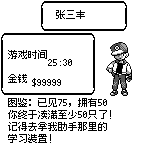
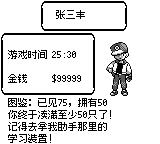
fix: align Chinese Hall of Fame stat labels and values

Changed region(s): [[0.1875, 0.5, 0.5312, 0.6111], [0.2812, 0.3333, 0.5, 0.4722]]

diff --git a/crates/pokered-tui/tests/common/visual_verify_zh_descriptions.rs b/crates/pokered-tui/tests/common/visual_verify_zh_descriptions.rs
@@ -114,6 +114,16 @@ fn capture_tui_zh_descriptions() {
     game.draw(&mut fb);
     save(&fb, "tui-starter-dex-overlay");
 
+    game.hof_ceremony = Some(hof_stats_with_values(25, 30, 99999));
+    game.draw(&mut fb);
+    save(&fb, "tui-hof-rating-50");
+}
+
+fn hof_stats_with_values(
+    hours: u16,
+    minutes: u8,
+    money: u32,
+) -> pokered_core::hof_ceremony::HofCeremonyState {
     use pokered_core::hof_ceremony::{HofCeremonyState, HofEntry, HofPhase, HofPlayerStats};
     let mut hof = HofCeremonyState::new(
         vec![HofEntry {
@@ -123,9 +133,9 @@ fn capture_tui_zh_descriptions() {
         }],
         HofPlayerStats {
             name: "张三丰".into(),
-            play_time_hours: 25,
-            play_time_minutes: 30,
-            money: 99999,
+            play_time_hours: hours,
+            play_time_minutes: minutes,
+            money,
             dex_seen: 75,
             dex_owned: 50,
             rating: pokered_core::pc_screen::dex_rating_text(50),
@@ -138,7 +148,24 @@ fn capture_tui_zh_descriptions() {
         hof.update_frame();
     }
     assert_eq!(hof.phase(), HofPhase::PlayerStats);
-    game.hof_ceremony = Some(hof);
-    game.draw(&mut fb);
-    save(&fb, "tui-hof-rating-50");
+    hof
+}
+
+#[test]
+#[ignore = "writes TUI Hall of Fame value limits to PR_SCREENSHOTS"]
+fn capture_tui_zh_hof_stats_limits() {
+    let output = std::path::PathBuf::from(std::env::var("PR_SCREENSHOTS").unwrap());
+    std::fs::create_dir_all(&output).unwrap();
+    let mut game = PokemonGame::new(GameVersion::Red);
+    game.state.config.language = Lang::Zh;
+    game.state.screen = GameScreen::Overworld;
+    for (name, hours, minutes, money) in [
+        ("tui-hof-stats-zero", 0, 0, 0),
+        ("tui-hof-stats-max", 255, 59, 999999),
+    ] {
+        game.hof_ceremony = Some(hof_stats_with_values(hours, minutes, money));
+        let mut fb = FrameBuffer::new(RenderConfig::new(160, 144), Rgba::WHITE);
+        game.draw(&mut fb);
+        fb.save_png(&output.join(format!("{name}.png"))).unwrap();
+    }
 }

diff --git a/crates/pokered-app/tests/visual_verify_zh_descriptions.rs b/crates/pokered-app/tests/visual_verify_zh_descriptions.rs
@@ -138,6 +138,14 @@ fn chinese_pc_is_localized_before_pagination_in_the_real_game_loop() {
 }
 
 fn hof_stats() -> pokered_core::hof_ceremony::HofCeremonyState {
+    hof_stats_with_values(25, 30, 99999)
+}
+
+fn hof_stats_with_values(
+    hours: u16,
+    minutes: u8,
+    money: u32,
+) -> pokered_core::hof_ceremony::HofCeremonyState {
     use pokered_core::hof_ceremony::{HofCeremonyState, HofEntry, HofPhase, HofPlayerStats};
     let mut hof = HofCeremonyState::new(
         vec![HofEntry {
@@ -147,9 +155,9 @@ fn hof_stats() -> pokered_core::hof_ceremony::HofCeremonyState {
         }],
         HofPlayerStats {
             name: "张三丰".into(),
-            play_time_hours: 25,
-            play_time_minutes: 30,
-            money: 99999,
+            play_time_hours: hours,
+            play_time_minutes: minutes,
+            money,
             dex_seen: 75,
             dex_owned: 50,
             rating: pokered_core::pc_screen::dex_rating_text(50),
@@ -162,6 +170,27 @@ fn hof_stats() -> pokered_core::hof_ceremony::HofCeremonyState {
         hof.update_frame();
     }
     panic!("Hall of Fame did not reach player stats");
+}
+
+#[test]
+#[ignore = "writes Hall of Fame value limits to PR_SCREENSHOTS"]
+fn capture_zh_hof_stats_limits() {
+    let output = std::path::PathBuf::from(std::env::var("PR_SCREENSHOTS").unwrap());
+    std::fs::create_dir_all(&output).unwrap();
+    let mut resources = Some(ResourceManager::new(AssetRoot::auto_detect().unwrap()));
+    for (name, hours, minutes, money) in [
+        ("hof-stats-zero", 0, 0, 0),
+        ("hof-stats-max", 255, 59, 999999),
+    ] {
+        let mut fb = FrameBuffer::new(RenderConfig::new(160, 144), Rgba::WHITE);
+        render::draw_hof_ceremony(
+            &hof_stats_with_values(hours, minutes, money),
+            &mut resources,
+            &mut fb,
+            Lang::Zh,
+        );
+        fb.save_png(&output.join(format!("{name}.png"))).unwrap();
+    }
 }
 
 #[test]

diff --git a/crates/pokered-app/src/render/hof_ceremony.rs b/crates/pokered-app/src/render/hof_ceremony.rs
@@ -339,16 +339,24 @@ fn draw_player_stats(hof: &HofCeremonyState, fb: &mut FrameBuffer, is_zh: bool) 
     draw_text_box(fb, 5 * T, 0, 9, 2, FG);
     draw_text(&stats.name, 7 * T, if is_zh { T } else { 2 * T }, FG, fb);
     draw_text_box(fb, 0, 4 * T, 10, 6, FG);
+    // Chinese labels and values share a baseline and value column. The 4px
+    // gap after 游戏时间 still leaves room for 255:59 and $999999 in the box.
     draw_text(lang_data::ui_label("PLAY TIME", is_zh), T, 6 * T, FG, fb);
     draw_text(
         &format!("{}:{:02}", stats.play_time_hours, stats.play_time_minutes),
-        if is_zh { 6 * T } else { 5 * T },
-        7 * T,
+        if is_zh { 6 * T + 4 } else { 5 * T },
+        if is_zh { 6 * T } else { 7 * T },
         FG,
         fb,
     );
     draw_text(lang_data::ui_label("MONEY", is_zh), T, 9 * T, FG, fb);
-    draw_text(&format!("${}", stats.money), 4 * T, if is_zh { 76 } else { 10 * T }, FG, fb);
+    draw_text(
+        &format!("${}", stats.money),
+        if is_zh { 6 * T + 4 } else { 4 * T },
+        if is_zh { 9 * T } else { 10 * T },
+        FG,
+        fb,
+    );
     // DexSeenOwnedText / DexRatingText equivalents.
     if is_zh {
         draw_text(&format!("图鉴：已见{}，拥有{}", stats.dex_seen, stats.dex_owned), T, 12 * T, FG, fb);

diff --git a/crates/pokered-tui/src/render/hof_ceremony.rs b/crates/pokered-tui/src/render/hof_ceremony.rs
@@ -228,16 +228,24 @@ fn draw_player_stats(hof: &HofCeremonyState, fb: &mut FrameBuffer, is_zh: bool) 
     draw_text_box(fb, 5 * T, 0, 9, 2, FG);
     draw_text(&stats.name, 7 * T, if is_zh { T } else { 2 * T }, FG, fb);
     draw_text_box(fb, 0, 4 * T, 10, 6, FG);
+    // Chinese labels and values share a baseline and value column. The 4px
+    // gap after 游戏时间 still leaves room for 255:59 and $999999 in the box.
     draw_text(lang_data::ui_label("PLAY TIME", is_zh), T, 6 * T, FG, fb);
     draw_text(
         &format!("{}:{:02}", stats.play_time_hours, stats.play_time_minutes),
-        if is_zh { 6 * T } else { 5 * T },
-        7 * T,
+        if is_zh { 6 * T + 4 } else { 5 * T },
+        if is_zh { 6 * T } else { 7 * T },
         FG,
         fb,
     );
     draw_text(lang_data::ui_label("MONEY", is_zh), T, 9 * T, FG, fb);
-    draw_text(&format!("${}", stats.money), 4 * T, if is_zh { 76 } else { 10 * T }, FG, fb);
+    draw_text(
+        &format!("${}", stats.money),
+        if is_zh { 6 * T + 4 } else { 4 * T },
+        if is_zh { 9 * T } else { 10 * T },
+        FG,
+        fb,
+    );
     // DexSeenOwnedText / DexRatingText equivalents.
     if is_zh {
         draw_text(&format!("图鉴：已见{}，拥有{}", stats.dex_seen, stats.dex_owned), T, 12 * T, FG, fb);

diff --git a/docs/zh-descriptive-text-audit.md b/docs/zh-descriptive-text-audit.md
@@ -53,6 +53,9 @@ PC 原本先按四个英文源行分页，再在绘制时逐行翻译。
 名人堂结算原本只绘制评价的前两个英文源行，后半段直接丢失。
 现在中文评价使用同一份完整译文，以 12px 行距显示三行。
 已见/拥有数量合成一行，为完整评价留出空间；中文名字、时间及金额也放回各自框内。
+时间与金额的标签、数值使用同一行基线，两组数值统一从 x=52px 开始；
+“游戏时间”标签后留 4px 空隙。核对正常值、零值及游戏上限 `255:59` / `$999999`，
+均完整处于统计框内。原生/Web 与 TUI 对应帧逐像素一致，框外评价和人物图不变。
 
 中文 TM/HM 学习提示改为 16px 行距，避免末两行重叠。
 战斗提示保持核心准备好的中文两行；进化、交换保留各阶段的明确行界。
@@ -72,6 +75,9 @@ PC 原本先按四个英文源行分页，再在绘制时逐行翻译。
 截图在 `docs/screenshots/zh-descriptions/`；PR 描述嵌入全部 19 组前/后图。
 涵盖开场真实输入、静态开场、命名、图鉴、学习提示、战斗、进化、交换、联机、
 PC 评价、名人堂结算、场景图鉴预览及 TUI 对应界面。
+另在 `docs/screenshots/zh-hof-stats-alignment/` 保存四组名人堂对齐对照：
+原生/TUI 的正常值与上限值。此处前图来自修正对齐前的 PR 提交 `9b07393`，
+用于直接展示数值错位；上面的主对照仍以 master `72ff719` 为前图。
 
 ## 复查
 
@@ -85,6 +91,10 @@ PR_SCREENSHOTS=/tmp/zh-description-shots \
   cargo test --locked -p pokered-app --test visual_verify_zh_descriptions -- --ignored
 PR_SCREENSHOTS=/tmp/zh-description-shots \
   cargo test --locked -p pokered-tui capture_tui_zh_descriptions -- --ignored
+PR_SCREENSHOTS=/tmp/zh-description-shots \
+  cargo test --locked -p pokered-app --test visual_verify_zh_descriptions capture_zh_hof_stats_limits -- --ignored
+PR_SCREENSHOTS=/tmp/zh-description-shots \
+  cargo test --locked -p pokered-tui capture_tui_zh_hof_stats_limits -- --ignored
 ```
 
 全量回归按 crate 分别运行，避免 workspace feature 合并影响平台测试。
